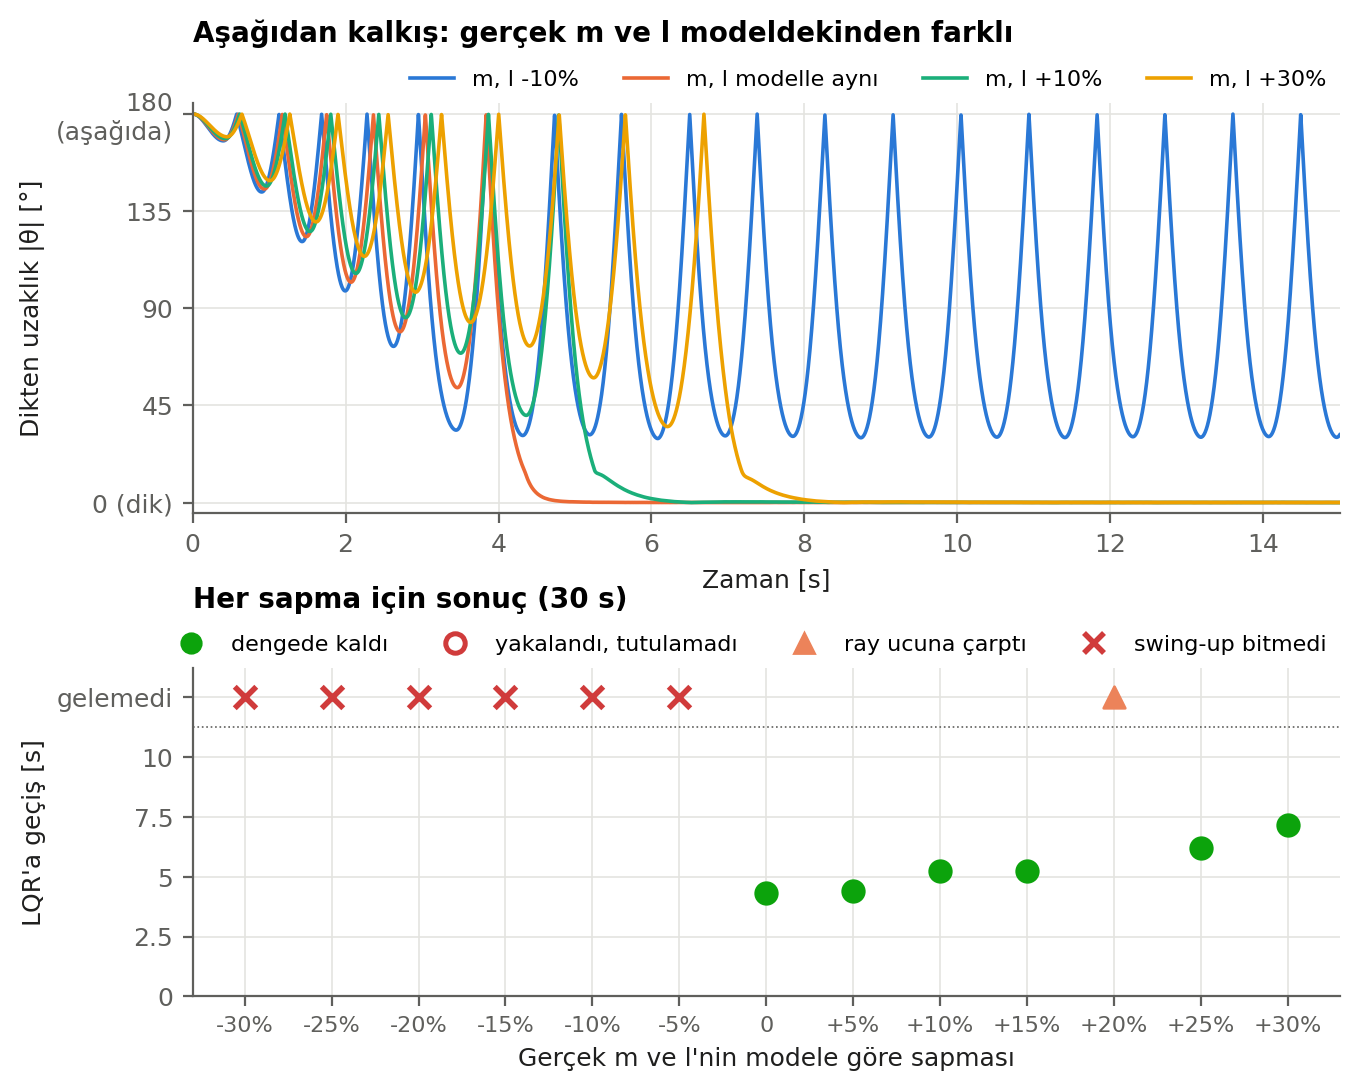
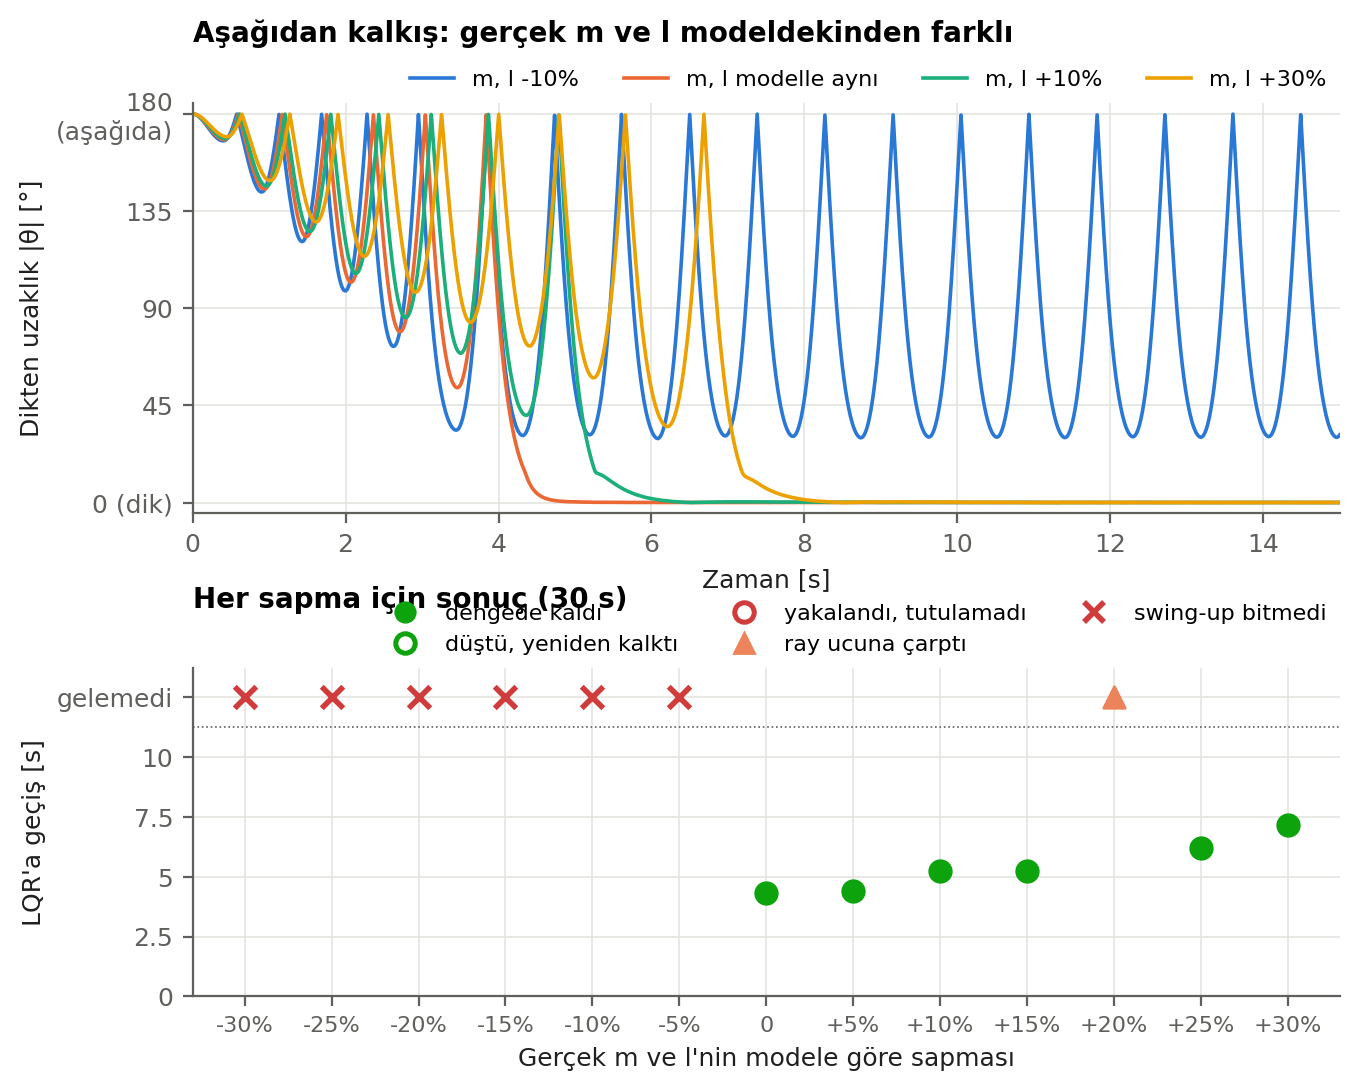
PR #45 inceleme 2. tur: model uyumsuzluğunda düştü/yeniden kalktı ayrımı, ortak sınıflandırma, belge düzeltmeleri
- rapor_sekilleri.classify: araçla aynı kural (DÜŞTÜ, TUTAMADI yalnız son mod dengede değilse)
- Hassasiyet raporuna bağlantı yalnız params.json ile üretilen şekillerde
- Belge: R/Kt/Ke türetildi notu, −%10'da düşüp yeniden kalkma, ölü bant ifadesi (≈0.14 m) düzeltildi

Changed region(s): [[0.1854, 0.5298, 0.5563, 0.6233], [0.5872, 0.561, 0.989, 0.6233], [0.1236, 0.561, 0.1545, 0.6233]]

diff --git a/tools/rapor_sekilleri.py b/tools/rapor_sekilleri.py
@@ -118,6 +118,21 @@ def shade_modes(ax, r):
         i = j + 1
 
 
+def classify(r, e):
+    """Deneme sonucu; mekatronik_on_degerlendirme.py ile aynı kural. LQR'a geçildiyse:
+    TUTAMADI = yakaladı, bıraktı ve sonunda yine dengede değil; DÜŞTÜ = bıraktı ama swing-up yeniden kaldırdı."""
+    m = list(r.mode)
+    if "BALANCE" not in m:
+        return e.status
+    after = m[m.index("BALANCE"):]
+    lost = "SWING_UP" in after or "WAIT" in after
+    if e.status == "BAŞARISIZ" and m[-1] != "BALANCE":
+        return "TUTAMADI"
+    if lost and e.status in ("BAŞARILI", "SINIRDA"):
+        return "DÜŞTÜ"
+    return e.status
+
+
 def pulse(F):
     return lambda t: F if PUSH_START <= t < PUSH_START + PUSH_DUR else 0.0
 
@@ -259,10 +274,7 @@ def fig_mismatch(S: Setup, out: Path):
         real.l *= k
         r = S.run(real, [0, 0, math.pi, 0], T)
         e = evaluate_result(r, S.p)
-        tb = first_balance(r)
-        # LQR'a geçti ama sonunda dengede değil: "swing-up bitmedi" değil, "yakaladı ama tutamadı"
-        status = "TUTAMADI" if e.status == "BAŞARISIZ" and tb is not None else e.status
-        res[k] = (r, e, tb, status)
+        res[k] = (r, e, first_balance(r), classify(r, e))
     fig = plt.figure(figsize=(7.4, 5.8))
     gs = fig.add_gridspec(2, 1, height_ratios=(1.25, 1.0), hspace=0.42)
     a1 = fig.add_subplot(gs[0])
@@ -282,12 +294,14 @@ def fig_mismatch(S: Setup, out: Path):
 
     a2 = fig.add_subplot(gs[1])
     pct = [(k - 1) * 100 for k in MISMATCH_GRID]
-    ok_t = [tb for (_, _, tb, st_) in res.values() if tb is not None and st_ in ("BAŞARILI", "SINIRDA", "TUTAMADI")]
+    ok_t = [tb for (_, _, tb, st_) in res.values() if tb is not None and st_ in ("BAŞARILI", "SINIRDA", "DÜŞTÜ", "TUTAMADI")]
     top = max(12.5, math.ceil(1.25 * max(ok_t, default=0.0) / 2.5) * 2.5)
     for k, x in zip(MISMATCH_GRID, pct):
         r, e, tb, st_ = res[k]
         if st_ in ("BAŞARILI", "SINIRDA"):
             a2.scatter(x, tb, s=60, color=GOOD, zorder=3)
+        elif st_ == "DÜŞTÜ":
+            a2.scatter(x, tb, s=60, facecolors="white", edgecolors=GOOD, linewidths=1.8, zorder=3)
         elif st_ == "TUTAMADI":
             a2.scatter(x, tb, s=60, facecolors="white", edgecolors=CRITICAL, linewidths=1.8, zorder=3)
         elif st_ == "RAY SINIRI":
@@ -305,10 +319,12 @@ def fig_mismatch(S: Setup, out: Path):
     a2.set_ylabel("LQR'a geçiş [s]")
     a2.set_title(f"Her sapma için sonuç ({T:g} s)", pad=22)
     h = [plt.Line2D([], [], ls="", marker="o", color=GOOD, ms=7),
+         plt.Line2D([], [], ls="", marker="o", mfc="white", mec=GOOD, mew=1.8, ms=7),
          plt.Line2D([], [], ls="", marker="o", mfc="white", mec=CRITICAL, mew=1.8, ms=7),
          plt.Line2D([], [], ls="", marker="^", color=SERIOUS, ms=7),
          plt.Line2D([], [], ls="", marker="x", color=CRITICAL, ms=7, mew=2)]
-    legend_above(a2, h, ["dengede kaldı", "yakalandı, tutulamadı", "ray ucuna çarptı", "swing-up bitmedi"], ncol=4)
+    legend_above(a2, h, ["dengede kaldı", "düştü, yeniden kalktı", "yakalandı, tutulamadı", "ray ucuna çarptı",
+                         "swing-up bitmedi"], ncol=3)
     fig.savefig(out / "model_uyumsuzlugu.png")
     plt.close(fig)
     # sarkacın dik konuma en çok yaklaştığı açı (ilk 3 s'lik sallanma hariç)
@@ -428,9 +444,13 @@ def write_readme(out: Path, S: Setup, params_path: Path, sw, push_rows, push_max
               f"her salınımda dik konuma ancak {f'{min(cl):.0f}' if round(min(cl)) == round(max(cl)) else f'{min(cl):.0f}–{max(cl):.0f}'}°'ye kadar yaklaşıyor, {CATCH_DEG:g}°'lik "
               "yakalama bölgesine giremiyor. Olası sebep: swing-up hedef enerjiyi nominal modelle hesaplıyor; gerçek sarkaç "
               "farklıysa bu hedef de kayıyor."]
-        if side == "hafif/kısa":
+        if side == "hafif/kısa" and prel == "config/params.json":   # hassasiyet raporu bu dosyayla üretildi
             L[-1] += (" Bu, [hassasiyet raporundaki](../../hassasiyet_raporu.md) `l` parametresinin \"KRİTİK\" "
                       "sonucuyla tutarlıdır.")
+    fell = [k for k, v in mm.items() if v[0] == "DÜŞTÜ"]
+    if fell:
+        L += ["", f"**Not:** {pct_range(fell)} sapmada LQR sarkacı yakaladıktan sonra bıraktı; swing-up yeniden kaldırdı "
+              "ve deneme dengede bitti (tablodaki geçiş zamanı ilk yakalamadır)."]
     lost = [k for k, v in mm.items() if v[0] == "TUTAMADI"]
     if lost:
         L += ["", f"**Not:** {pct_range(lost)} sapmada sarkaç yakalama bölgesine girip LQR'a geçti, ama LQR onu "

diff --git a/tools/mekatronik_on_degerlendirme.py b/tools/mekatronik_on_degerlendirme.py
@@ -68,12 +68,12 @@ def run(p, e_ratio, friction_comp=True, T=T):
     e = evaluate_result(r, p)
     m = np.asarray(r.mode)
     tb = float(r.t[np.argmax(m == "BALANCE")]) if (m == "BALANCE").any() else None
-    status = e.status
+    status = e.status                                             # tools/rapor_sekilleri.py::classify ile aynı kural
     if tb is not None:
         after = set(m[np.argmax(m == "BALANCE"):])
         lost = "SWING_UP" in after or "WAIT" in after             # LQR yakaladıktan sonra bıraktı mı?
-        if status == "BAŞARISIZ":
-            status = "TUTAMADI"                                   # yakaladı, bıraktı, yeniden yakalayamadı
+        if status == "BAŞARISIZ" and m[-1] != "BALANCE":
+            status = "TUTAMADI"                                   # yakaladı, bıraktı, sonunda dengede değil
         elif lost and status in ("BAŞARILI", "SINIRDA"):
             status = "DÜŞTÜ"                                      # bıraktı, swing-up yeniden kaldırdı
     # dike en yakın açı, ilk sallanma (3 s; kısa koşuda sürenin yarısı) hariç

diff --git a/docs/mekatronik_on_degerlendirme.md b/docs/mekatronik_on_degerlendirme.md
@@ -6,7 +6,7 @@ görmek ve iki ekibin netleştirmesi gereken noktaları listelemektir.
 
 > ⚠ **Bu bir ön değerlendirmedir.** Kullanılan değerler CAD tasarımından ve mekatroniğin hesaplarından gelir, ölçüm
 > değildir. JGB37-520'nin datasheet'i henüz yok. Motor, raporun Tablo 16'daki gerilim–kuvvet kazancı ve zıt EMK
-> sönümüyle modellendi; direnç (R) yer tutucu. Projenin asıl parametre dosyası `config/params.json` **değiştirilmedi**;
+> sönümüyle modellendi; R, Kt ve Ke bu iki değerden Kt = Ke varsayımıyla türetildi, ölçülmedi. Projenin asıl parametre dosyası `config/params.json` **değiştirilmedi**;
 > bu çalışma ayrı bir dosyayla yapıldı: `config/params_mekatronik_tasarim.json`.
 
 Yeniden üretmek için:
@@ -102,14 +102,16 @@ parametrelerle karşılaştırma ([`media/rapor/README.md`](media/rapor/README.m
 * **Motor gerilim sınırında çalışıyor.** Swing-up sırasında 12 V'a dayanıyor: motorun gerçek kuvveti (≈ 27 N durma)
   yer tutucudakinden çok düşük ve rotorun 1.35 kg'lık yansıyan kütlesi arabayı ağırlaştırıyor. Datasheet gelince
   yeniden bakılmalı.
-* **Model uyumsuzluğu:** −%15 … +%20 aralığında dengede kalıyor (−%10 ve +%20'de araba ray ucuna yaklaşıyor).
+* **Model uyumsuzluğu:** −%15 … +%20 aralığında deneme dengede bitiyor; −%10'da LQR sarkacı bir kez bırakıyor ve
+  swing-up yeniden kaldırıyor (araba 0.31 m'ye kadar gidiyor), +%20'de araba ray ucuna yaklaşıyor.
   −%20'de yakalanıyor ama araba ray ucuna çarpıyor; −%25 ve altında sarkaç yakalama bölgesine hiç yaklaşamıyor;
   +%25'te LQR yakalıyor ama tutamıyor, +%30'da yakalama bölgesinin hemen dışında kalıyor. **m ve l'nin ölçülerek doğru
   girilmesi şart.**
 * **Dengede sürtünmeden doğan konum kayması:** LQR Coulomb sürtünmesini telafi etmez (firmware'de de telafi yalnız
-  swing-up'ta). 3 N sürtünme, konum hatası küçükken LQR'ın komutunu yutar ve araba yaklaşık F_c / (α·|K_x|) ≈ 0.13 m'lik
-  bir ölü bantta durabilir. Tablolardaki dengede max \|x\| ≈ 0.14 m'nin sebebi bu (sürtünmesiz ≈ 0.01 m). ±0.4 m rayın
-  üçte biri; gerçek sürtünme ölçülünce dengede de telafi ya da integral etki değerlendirilmeli.
+  swing-up'ta). 3 N sürtünme, konum hatası küçükken LQR'ın komutunu yutar ve araba yaklaşık F_c / (α·|K_x|) ≈ 0.14 m'lik
+  bir ölü bantta durabilir: dengede araba ≈ 0.14 m'ye kadar kayabiliyor (dürtme tablosunda 0.2 N'lik itmede bile
+  0.141 m), sürtünmesiz dengede ise birkaç mm. ±0.4 m rayın üçte biri; gerçek sürtünme ölçülünce dengede de telafi ya da
+  integral etki değerlendirilmeli. (Tablolardaki max \|x\| bütün koşuyu kapsar; swing-up evresi de ≈ 0.14 m'ye çıkar.)
 
 ## 4. İki ekibin raporları arasındaki farklar
 

diff --git a/docs/media/rapor_mekatronik/README.md b/docs/media/rapor_mekatronik/README.md
@@ -59,7 +59,7 @@ LQR'ın swing-up'a düşmeden kurtarabildiği en büyük itme (aynı süreyle): 
 | -25% | swing-up bitmedi | — | 0.156 m | 85.3° |
 | -20% | ray ucuna çarptı | 7.65 s | 0.400 m | 0.0° |
 | -15% | dengede kaldı | 5.62 s | 0.147 m | 0.0° |
-| -10% | dengede kaldı (ray ucuna yakın) | 4.93 s | 0.314 m | 0.0° |
+| -10% | düştü, swing-up yeniden kaldırdı | 4.93 s | 0.314 m | 0.0° |
 | -5% | dengede kaldı | 4.23 s | 0.150 m | 0.0° |
 | +0% | dengede kaldı | 4.32 s | 0.143 m | 0.0° |
 | +5% | dengede kaldı | 3.57 s | 0.142 m | 0.0° |
@@ -69,9 +69,11 @@ LQR'ın swing-up'a düşmeden kurtarabildiği en büyük itme (aynı süreyle): 
 | +25% | LQR yakaladı ama tutamadı | 3.64 s | 0.272 m | 11.9° |
 | +30% | swing-up bitmedi | — | 0.133 m | 15.8° |
 
-**Not:** Gerçek sarkaç modeldekinden hafif/kısa olduğunda (-30% … -25%) swing-up tamamlanmıyor: sarkaç her salınımda dik konuma ancak 85–91°'ye kadar yaklaşıyor, 15°'lik yakalama bölgesine giremiyor. Olası sebep: swing-up hedef enerjiyi nominal modelle hesaplıyor; gerçek sarkaç farklıysa bu hedef de kayıyor. Bu, [hassasiyet raporundaki](../../hassasiyet_raporu.md) `l` parametresinin "KRİTİK" sonucuyla tutarlıdır.
+**Not:** Gerçek sarkaç modeldekinden hafif/kısa olduğunda (-30% … -25%) swing-up tamamlanmıyor: sarkaç her salınımda dik konuma ancak 85–91°'ye kadar yaklaşıyor, 15°'lik yakalama bölgesine giremiyor. Olası sebep: swing-up hedef enerjiyi nominal modelle hesaplıyor; gerçek sarkaç farklıysa bu hedef de kayıyor.
 
 **Not:** Gerçek sarkaç modeldekinden ağır/uzun olduğunda (+30%) swing-up tamamlanmıyor: sarkaç her salınımda dik konuma ancak 16°'ye kadar yaklaşıyor, 15°'lik yakalama bölgesine giremiyor. Olası sebep: swing-up hedef enerjiyi nominal modelle hesaplıyor; gerçek sarkaç farklıysa bu hedef de kayıyor.
+
+**Not:** -10% sapmada LQR sarkacı yakaladıktan sonra bıraktı; swing-up yeniden kaldırdı ve deneme dengede bitti (tablodaki geçiş zamanı ilk yakalamadır).
 
 **Not:** +25% sapmada sarkaç yakalama bölgesine girip LQR'a geçti, ama LQR onu tutamadı ve swing-up süre sonuna kadar yeniden tamamlanmadı. LQR nominal modelle tasarlandığı için sapma büyüyünce denge payı azalıyor.
 
